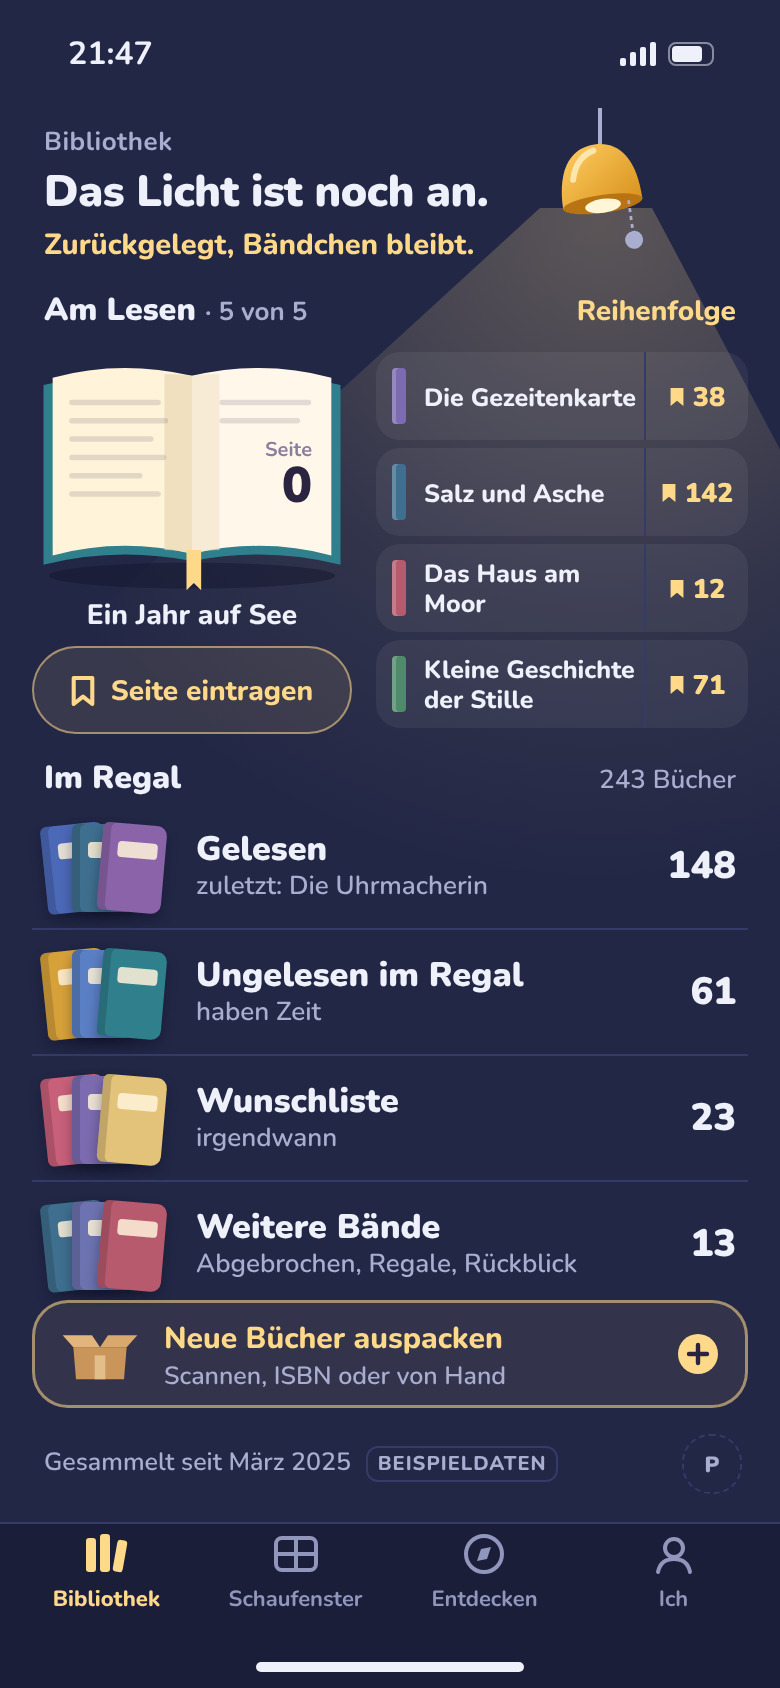
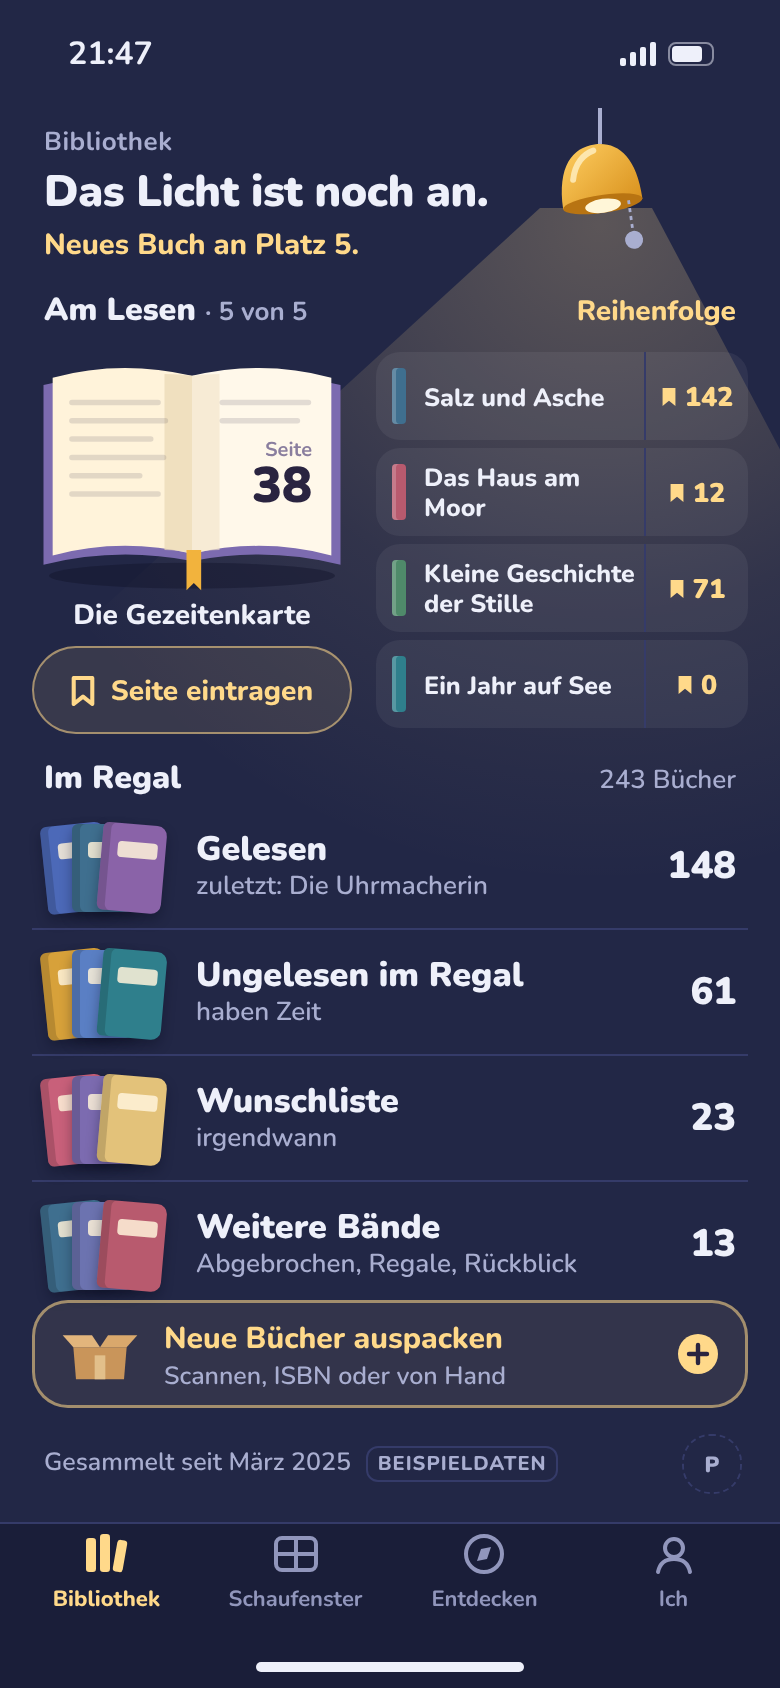
Prototyp: neues Buch kommt ans Ende von Am Lesen
Claude-Session: https://claude.ai/code/session_01XFBEjrJEUrXQYaFeZnVBdK

diff --git a/prototyp/designer/3-charakter/LichtAn.dc.html b/prototyp/designer/3-charakter/LichtAn.dc.html
@@ -666,7 +666,8 @@ class Component extends DCLogic {
       var ex = Object.assign({}, s.extraLib); ex[bk.id] = { title: bk.title, author: bk.author, page: 0, pages: bk.pages || 280, cover: bk.cover, ribbon: '#FFD98A' };
       var pg = Object.assign({}, s.pages); pg[bk.id] = 0;
       var st = Object.assign({}, s.started); st[bk.id] = true;
-      return { extraLib: ex, pages: pg, started: st, active: [bk.id].concat(a), sheet: null, screen: 'home', pendingStart: null };
+      var na = a.concat([bk.id]);
+      return { extraLib: ex, pages: pg, started: st, active: na, sheet: null, screen: 'home', pendingStart: null, saved: na.length === 1 ? 'Liegt jetzt im Licht. Viel Freude.' : 'Liegt jetzt an Platz ' + na.length + '.' };
     };
     var pend = BOOKS.filter(function (x) { return x.id === s.pendingStart; })[0];
     // Seite eintragen
@@ -730,13 +731,13 @@ class Component extends DCLogic {
       book: book, bookBackLabel: s.from === 'vol' ? VOLS[b.vol].name : 'Bibliothek',
       startReading: function () {
         if (act.length >= 5) self.setState({ sheet: 'full', pendingStart: b.id });
-        else { var p = doStart(b, act); p.saved = 'Liegt jetzt im Licht. Viel Freude.'; self.setState(p); }
+        else self.setState(doStart(b, act));
       },
-      fullText: pend ? 'Damit „' + pend.title + '“ ins Licht kann, darf eines davon zurück ins Regal. Sein Lesebändchen bleibt, wo es ist.' : '',
+      fullText: pend ? 'Damit „' + pend.title + '“ dazukommen kann, darf eines davon zurück ins Regal. Sein Lesebändchen bleibt, wo es ist. Das neue kommt ans Ende, nach vorn holst du es selbst.' : '',
       fullRows: act.map(function (id) {
         var bk = lib[id];
         return { title: bk.title, sub: 'Lesebändchen auf Seite ' + s.pages[id], strip: strip(bk.cover, 32), aria: bk.title + ' zurück ins Regal legen, Lesebändchen bleibt auf Seite ' + s.pages[id],
-          pick: function () { if (!pend) return; var p = doStart(pend, act.filter(function (x) { return x !== id; })); p.saved = 'Zurückgelegt, Bändchen bleibt.'; p.paused = (s.paused || 0) + 1; self.setState(p); } };
+          pick: function () { if (!pend) return; var p = doStart(pend, act.filter(function (x) { return x !== id; })); p.saved = 'Neues Buch an Platz ' + p.active.length + '.'; p.paused = (s.paused || 0) + 1; self.setState(p); } };
       }),
       showcaseChecked: on ? 'true' : 'false',
       showcaseHint: on ? 'Steht im Fenster. Sichtbar: Lesart, Lichter, Zitat.' : 'Aus. Nichts davon ist öffentlich.',

diff --git a/prototyp/designer/3-charakter/KONZEPT.md b/prototyp/designer/3-charakter/KONZEPT.md
@@ -128,7 +128,7 @@ Arjens Vorgaben: höchstens 5 Bücher am Lesen, die Reihenfolge lässt sich prio
 
 Ziehen per Drag habe ich bewusst weggelassen: Es ist einhändig unzuverlässig und für ältere Leser schwer.
 
-**Grenze 5.** Will man ein sechstes Buch anfangen („Jetzt anfangen zu lesen“ auf der Buchseite eines ungelesenen Buchs), kommt keine Fehlermeldung. Stattdessen erscheint ein ruhiges Sheet: „Fünf Bücher liegen schon offen. Damit ‚Ein Jahr auf See‘ ins Licht kann, darf eines davon zurück ins Regal. Sein Lesebändchen bleibt, wo es ist.“ Darunter stehen die fünf Bücher mit „zurücklegen“ und unten „Doch noch warten lassen“. Das zurückgelegte Buch steht wieder bei Ungelesen, die Seite bleibt gemerkt. Das neue Buch liegt danach im Licht.
+**Grenze 5.** Will man ein sechstes Buch anfangen („Jetzt anfangen zu lesen“ auf der Buchseite eines ungelesenen Buchs), kommt keine Fehlermeldung. Stattdessen erscheint ein ruhiges Sheet: „Fünf Bücher liegen schon offen. Damit ‚Ein Jahr auf See‘ ins Licht kann, darf eines davon zurück ins Regal. Sein Lesebändchen bleibt, wo es ist.“ Darunter stehen die fünf Bücher mit „zurücklegen“ und unten „Doch noch warten lassen“. Das zurückgelegte Buch steht wieder bei Ungelesen, die Seite bleibt gemerkt. Das neue Buch kommt ans Ende („Neues Buch an Platz 5.“). Arjens Regel: Ein neu angefangenes Buch kommt immer ans Ende; nur wenn keins offen ist, liegt es im Licht. Hochstufen macht man selbst („Liegt jetzt an Platz 4.“, Screen 14b).
 
 **Rückmeldungen** stehen in einer Zeile unter der Überschrift: „Eingetragen: Seite 71.“, „Liegt jetzt im Licht.“, „Zurückgelegt, Bändchen bleibt.“, „3 Neue bei Ungelesen.“
 
@@ -137,4 +137,4 @@ Ziehen per Drag habe ich bewusst weggelassen: Es ist einhändig unzuverlässig u
 **Offene Fragen an Arjen**
 1. Soll ein Tipp auf den Titel im Balken das Buch ins Licht holen, oder soll er die Buchseite öffnen? Im zweiten Fall bliebe das Priorisieren nur über „Reihenfolge“.
 2. Ist der Ton beim sechsten Buch richtig, und soll „zurücklegen“ das Buch zu Ungelesen schicken oder in einen eigenen Zustand „pausiert“?
-3. Soll ein frisch angefangenes Buch automatisch ins Licht kommen oder hinten anstehen?
+3. (Entschieden: Neue Bücher kommen ans Ende.)
